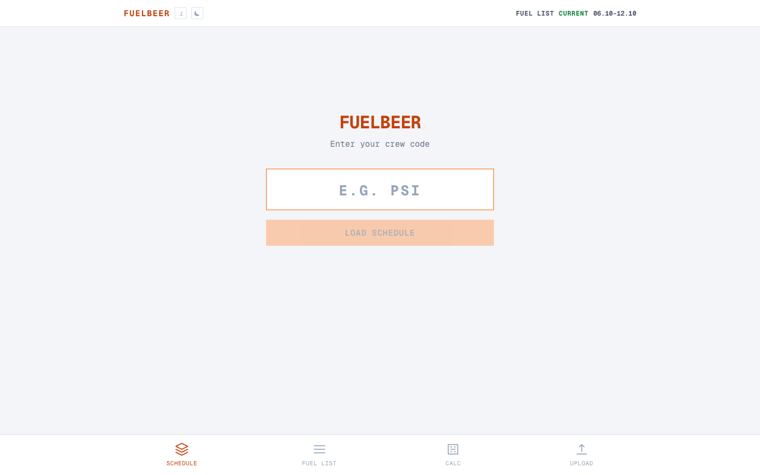
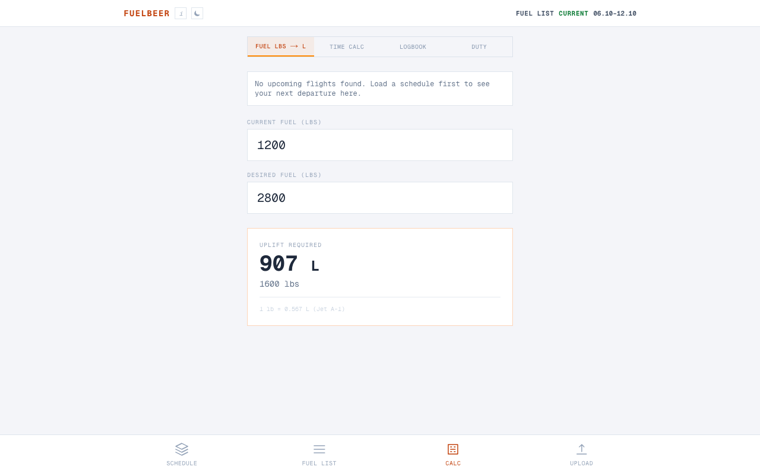
Portfolio: besserer FuelBeer-Screenshot (Rechner statt Login) + anonymisiertes Payment-Planning-Vorschaubild
- FuelBeer: via PSI eingeloggt, Fuel-Rechner mit Ergebnis gescreenshottet
- Payment Planning: anonymisiertes Dashboard-Mockup (kein Kundenname/-daten), Badge 'Anonymized preview'

diff --git a/index.html b/index.html
@@ -119,8 +119,11 @@
   .card::before { content:""; position:absolute; inset:0 0 auto 0; height:3px; background:linear-gradient(90deg,var(--accent),var(--accent-2)); opacity:0; transition:.2s; }
   .card:hover { transform: translateY(-4px); border-color: var(--accent); box-shadow: var(--shadow); background: var(--card-hover); }
   .card:hover::before { opacity: 1; }
-  .thumb { display: block; height: 158px; border-radius: 11px; overflow: hidden; border: 1px solid var(--border); background: var(--bg-soft); text-decoration: none; }
+  .thumb { display: block; position: relative; height: 158px; border-radius: 11px; overflow: hidden; border: 1px solid var(--border); background: var(--bg-soft); text-decoration: none; }
   a.thumb:hover { border-color: var(--accent); }
+  .thumb-badge { position: absolute; top: 8px; left: 8px; z-index: 2; font-size: .66rem; font-weight: 600;
+    letter-spacing: .03em; padding: 4px 9px; border-radius: 999px; color: #fff;
+    background: rgba(15,20,35,.72); backdrop-filter: blur(4px); border: 1px solid rgba(255,255,255,.15); }
   .thumb img { width: 100%; height: 100%; object-fit: cover; object-position: top center; display: block; transition: transform .35s ease; }
   .card:hover .thumb img { transform: scale(1.04); }
   .thumb-icon { display: flex; align-items: center; justify-content: center; font-size: 3.3rem;
@@ -325,7 +328,8 @@ const PROJECTS = [
     desc: "Client project: a liquidity-management dashboard that imports SAP exports, plans payments by due date and early-payment discount, and runs a multi-role approval workflow with login.",
     tech: ["Python", "Streamlit", "Pandas"],
     status: "private",
-    icon: "📊"
+    img: "assets/payment-planning.png",
+    imgBadge: "Anonymized preview"
   },
   {
     title: "Personal Finance Dashboard",
@@ -378,8 +382,11 @@ function render() {
       const foot = p.link
         ? `<a href="${p.link.href}" target="_blank" rel="noopener">${p.link.label} ${extLink}</a>`
         : `<span class="muted">${p.status === 'dev' ? 'In development' : 'Private / client work'}</span>`;
+      const badge = p.imgBadge ? `<span class="thumb-badge">${p.imgBadge}</span>` : '';
       const thumb = p.img
-        ? `<a class="thumb" href="${p.link ? p.link.href : '#'}"${p.link ? ' target="_blank" rel="noopener"' : ''}><img src="${p.img}" loading="lazy" alt="${p.title} screenshot"></a>`
+        ? (p.link
+            ? `<a class="thumb" href="${p.link.href}" target="_blank" rel="noopener">${badge}<img src="${p.img}" loading="lazy" alt="${p.title} screenshot"></a>`
+            : `<div class="thumb">${badge}<img src="${p.img}" loading="lazy" alt="${p.title} preview"></div>`)
         : `<div class="thumb thumb-icon">${p.icon || '🧩'}</div>`;
       return `
       <article class="card">
